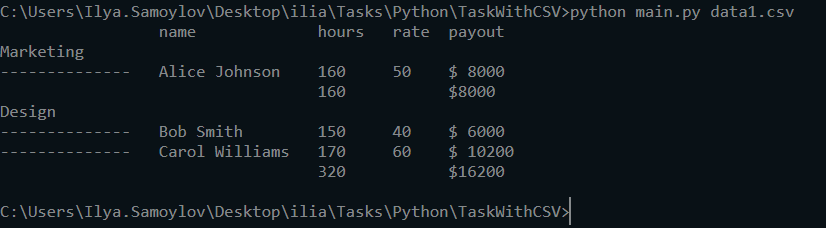
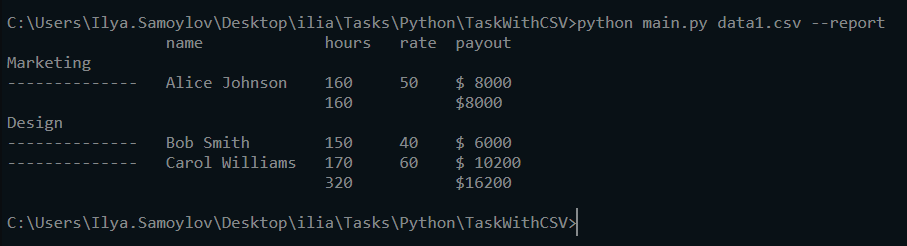
Add files via upload

diff --git a/TaskWithCSV/main.py b/TaskWithCSV/main.py
@@ -13,16 +13,19 @@ class Worker:
             setattr(self, cur_struct, worker_data[i])
 
     def __str__(self):
-    	return f"Id:{self.id}, email:{self.email}, name:{self.name}, " \
+        return f"Id:{self.id}, email:{self.email}, name:{self.name}, " \
                f"department:{self.department}, hours worked: {self.hours_worked}, " \
                f"hourly rate:{self.hourly_rate}"
  
 
 params = argv
 files = []
+type_of_task = ""
 for param in params:
-	if ".csv" in param:
-		files.append(param)
+    if ".csv" in param:
+        files.append(param)
+    elif "--report" in param:
+        type_of_task = "report"
 
 workers = []
 
@@ -44,7 +47,7 @@ for file in files:
     except Exception as e:
         print("Error: smth went wrong")
 
-if len(workers) > 0:
+if len(workers) > 0 and type_of_task == "report":
     departments = []
     max_len_department = 0
     max_len_name = 0

diff --git a/TaskWithCSV/README.md b/TaskWithCSV/README.md
@@ -11,10 +11,10 @@
 #### Getting report from 1 file
 ![GettingDataFromOneFile](README.assets/GettingDataFromOneFile.PNG)
 
-#### Getting report from 3 file
+#### Getting report from 3 files
 ![GettingDataFromThreeFiles](README.assets/GettingDataFromThreeFiles.PNG)
 
-#### Getting report without correct file
+#### Getting message when invalid parameters are being passed
 ![NoGettingData](README.assets/NoGettingData.PNG)
 
 
@@ -43,9 +43,12 @@ class Worker:
 
 params = argv
 files = []
+type_of_task = ""
 for param in params:
 	if ".csv" in param:
 		files.append(param)
+	elif "--report" in param:
+		type_of_task = "report"
 
 workers = []
 
@@ -67,7 +70,7 @@ for file in files:
     except Exception as e:
         print("Error: smth went wrong")
 
-if len(workers) > 0:
+if len(workers) > 0 and type_of_task == "report":
     departments = []
     max_len_department = 0
     max_len_name = 0
